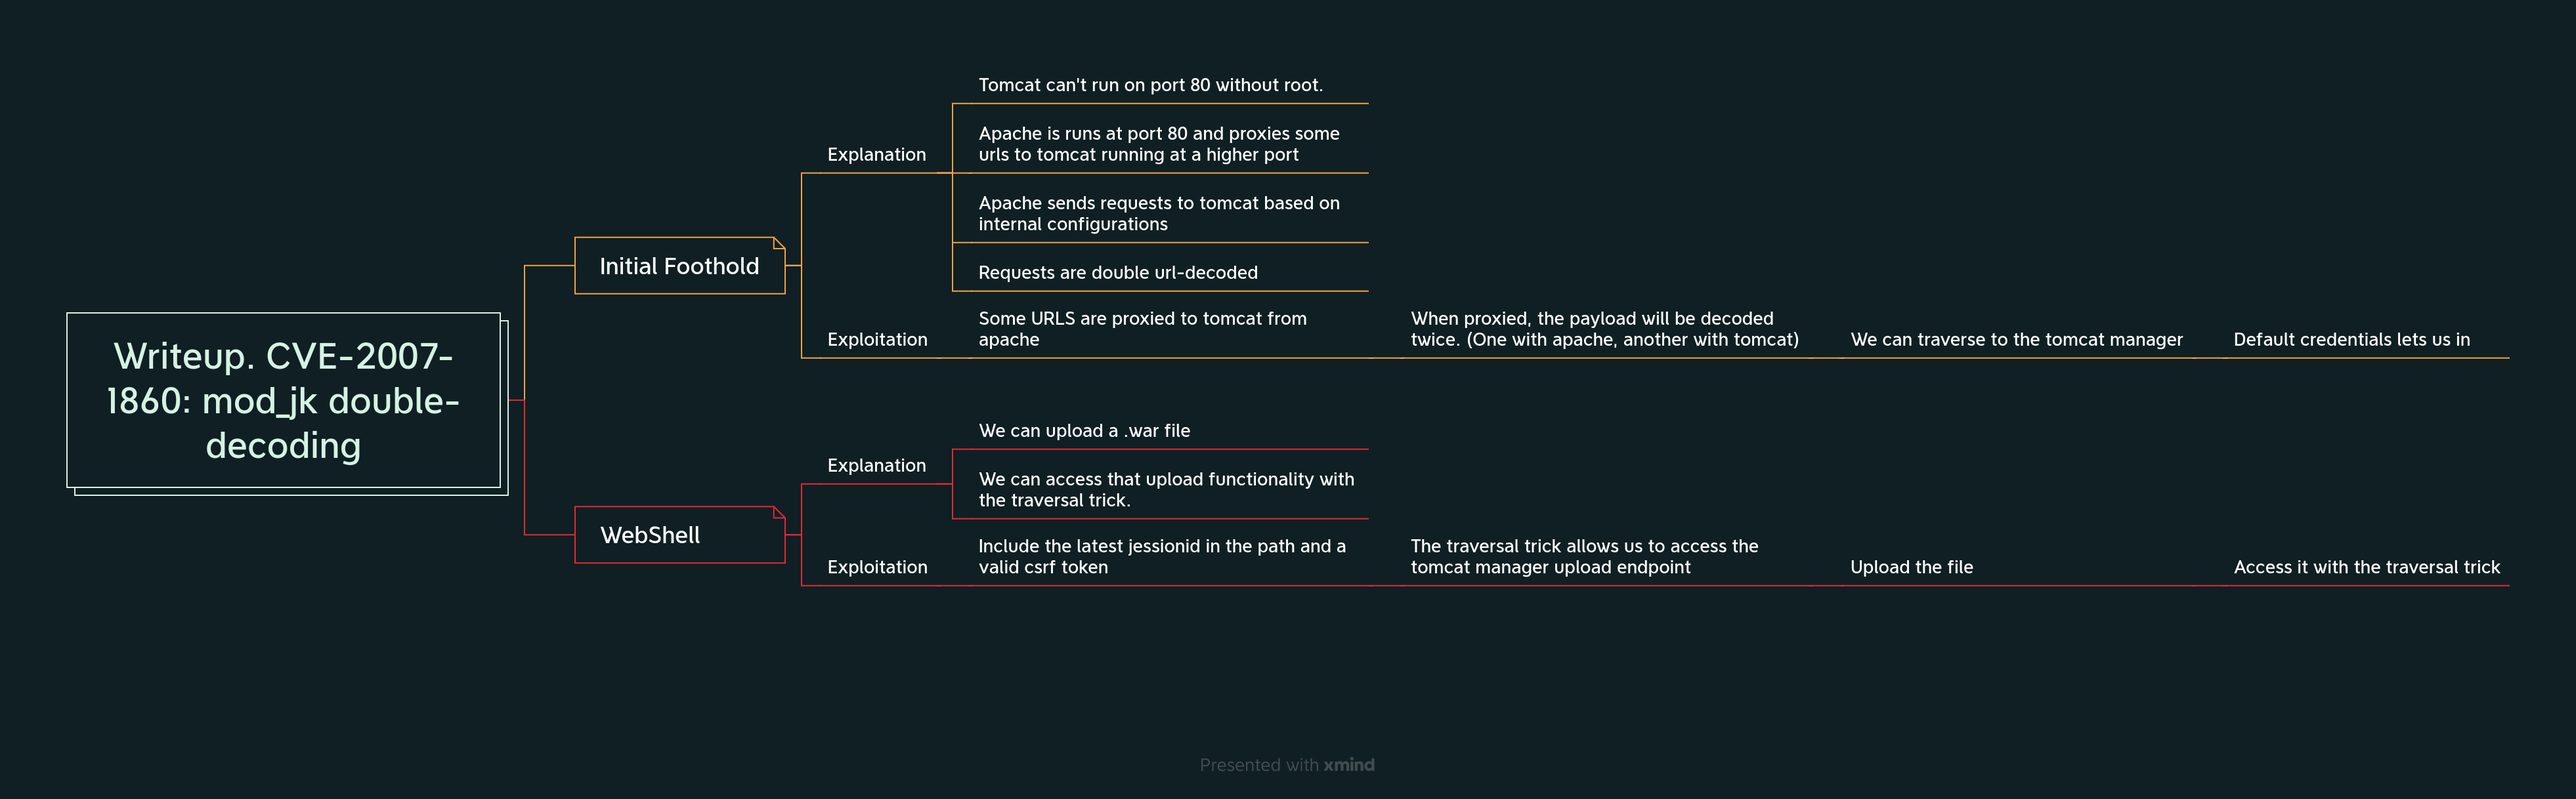
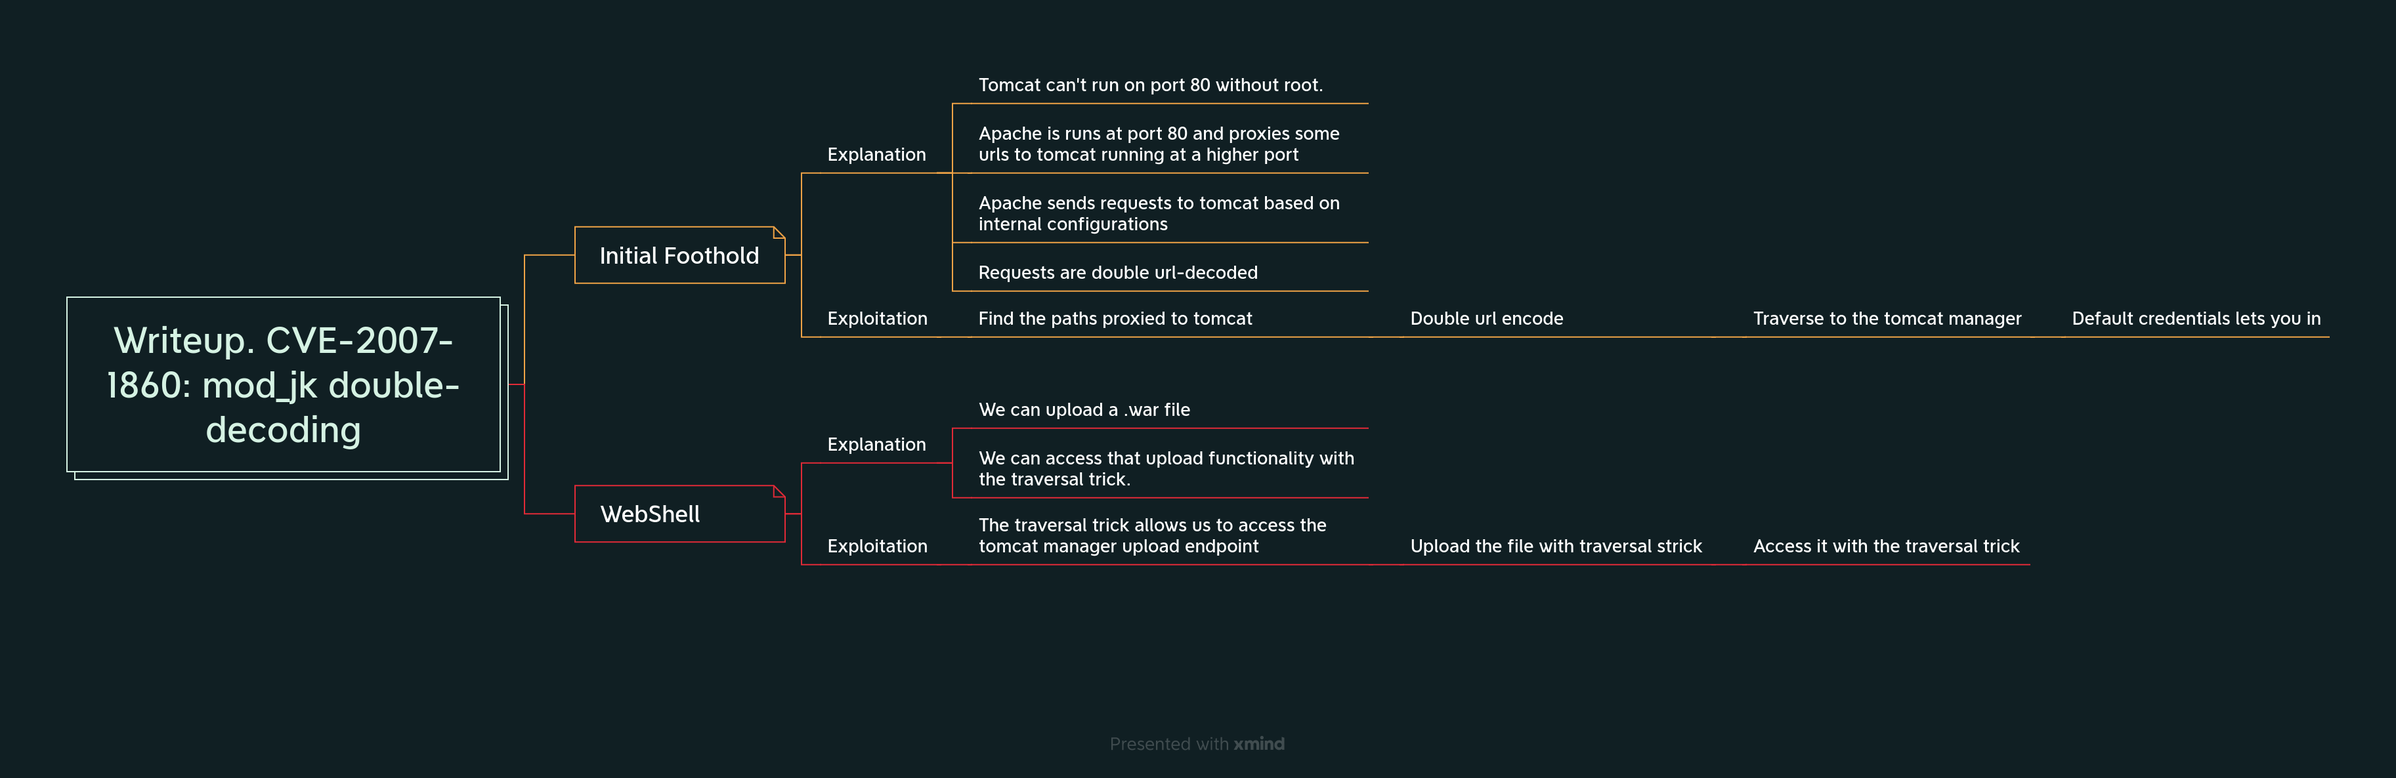
update

diff --git a/writeups/pentesterlab/CVE-2007-1860-Double-Encoding/index.html b/writeups/pentesterlab/CVE-2007-1860-Double-Encoding/index.html
@@ -570,7 +570,7 @@
 
 
 <h1 id="introduction">Introduction</h1>
-<p>The following information explains how to solve the CVE-2007-1860 course. It's a <strong>free</strong> pentesterlab exercise.</p>
+<p>The following information explains how to solve the CVE-2007-1860 iso. It's a <strong>free</strong> pentesterlab exercise.</p>
 <h2 id="the-problem-with-tomcat">The problem with tomcat</h2>
 <p>Linux/Unix systems cannot execute <code>tomcat</code> on port <code>80</code> without root permissions. Tomcat does not drop privilleges at startup. For tomcat to be available for most users, it needs to execute on port <code>80</code> or <code>443</code> for https. This leads to a possible solution.</p>
 <h2 id="proxying-from-apache-to-tomcat">Proxying from apache to tomcat</h2>
@@ -586,21 +586,21 @@
 <li>Find a tomcat 404 page.</li>
 <li>Use that page to send a request to tomcat that traverses to the manager.</li>
 </ol>
-<p>The tomcat 404 page can be found at: <code>/examples/jsp</code>. The payload is: <code>https://vulnerable_host.com/examples/jsp/%252e%252e/%252e%252e/manager/html</code></p>
+<p>The tomcat 404 page can be found at: <code>/examples/jsp/</code>. </p>
+<p>The payload is: <code>https://vulnerable_host.com/examples/jsp/%252e%252e/%252e%252e/manager/html</code></p>
 <p>This http request forces the tomcat manager to traverse to <code>manager/html</code>. (Tomcat receives the request as <code>%2e</code> and decodes it to <code>.</code> before processing it).</p>
 <h2 id="in-we-go">In we go</h2>
 <p>This instance of tomcat uses the default credentials <code>admin:</code>. We can base64 encode this and send it as input through the <code>&lt;Authorization: Basic&gt;</code> HTTP header.</p>
 <p><code>Authorization: Basic YWRtaW46</code></p>
 <h3 id="the-webshell">The webshell</h3>
 <p>We can upload a <code>.war</code> file through the manager. There's a <code>war</code> webshell in github.</p>
-<p>We need to double-encode <code>..</code> again or we get a 404 page.
-Tomcat 7 enforces the jessionid is part of the url-path.</p>
+<p>We need to double-encode <code>..</code> again or we get a 404 page.</p>
 <h3 id="poc_1">PoC</h3>
 <p><strong>Ensure the authorization header is set when issuing the requests</strong></p>
 <ol>
 <li>Download the  <code>war</code> webshell from github</li>
-<li>Set intercept to on and deploy the <code>war</code> file. In BurpSuite, Replace the values within angle-brackets in the path below and ensure the <code>war</code> file upload request uses that path:
-    <code>/examples/jsp/%252e%252e/%252e%252e/manager/html/upload;jsessionid=&lt;replace with jsessionid value&gt;?org.apache.catalina.filters.CSRF_NONCE=&lt;replace with csrf token value&gt;</code></li>
+<li>Set intercept to on and deploy the <code>war</code> file. In BurpSuite, insert the following contents at the beggining of the path:
+    <code>/examples/jsp/%252e%252e/%252e%252e</code> (Should look like this: <code>/examples/jsp/%252e%252e/%252e%252e/manager/html/upload</code>)</li>
 <li>Access the webshell with the traversal trick: <code>/examples/jsp/%252e%252e/%252e%252e/&lt;webshell filename&gt;</code></li>
 </ol>
 <h2 id="conclusion">Conclusion</h2>
